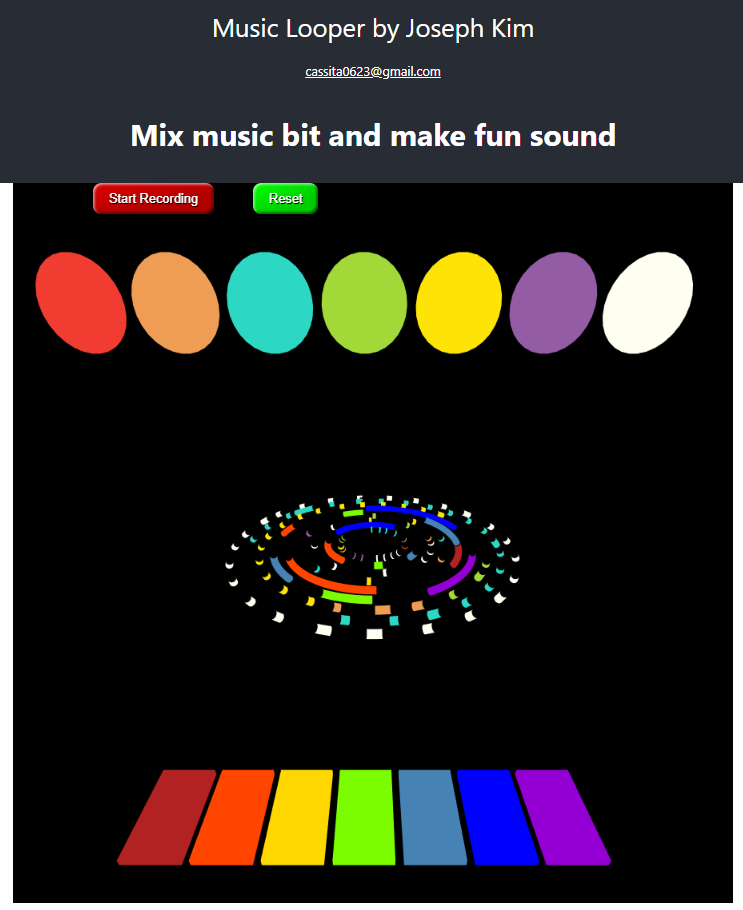
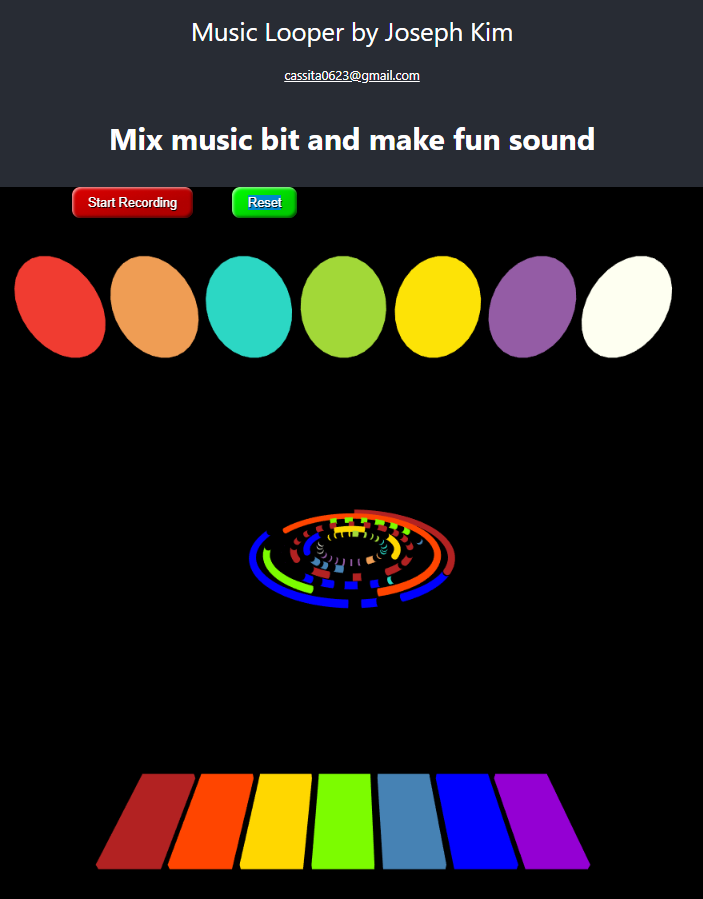
add new image

diff --git a/src/App.js b/src/App.js
@@ -7,7 +7,7 @@ function App() {
     <div className="App">
       <header className="App-header">
         <div>
-          <h3>Mix music bit and make fun sound</h3>
+          <h3>Mix music beats and make fun sound</h3>
         </div>
       </header>
       <AudioLooper></AudioLooper>
